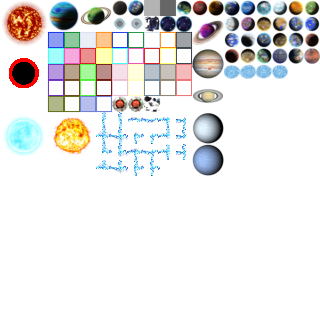
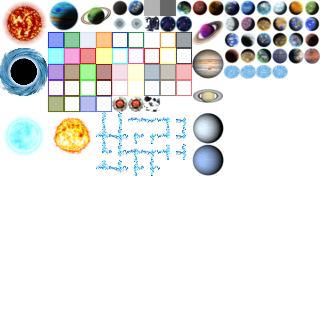
#635 Changes blackhole tiles to regular ones.
Graphics style uses similar color as ascension veins.

Changed region(s): [[0.0, 0.125, 0.1562, 0.3125]]

diff --git a/src/main/java/org/openRealmOfStars/gui/mapPanel/MapPanel.java b/src/main/java/org/openRealmOfStars/gui/mapPanel/MapPanel.java
@@ -466,104 +466,6 @@ public class MapPanel extends JPanel {
    */
   private static final int FLICKER_UPPER_LIMIT = 384;
 
-  /**
-   * Update black hole effect while drawing the map
-   * @param pixelX Pixel coordinate for X
-   * @param pixelY Pixel coordinate for Y
-   * @param i Map position in X coordinate
-   * @param j Map position in Y coordinate
-   * @param tile Black hole tile
-   */
-  public void updateBlackHoleEffect(final int pixelX, final int pixelY,
-      final int i, final int j, final Tile tile) {
-    int safePixelX = pixelX;
-    int safePixelY = pixelY;
-    BufferedImage effectScr = screen;
-    if (panelType == MapPanelType.STARMAP) {
-      effectScr = backgroundScreen;
-    }
-    if (safePixelX - Tile.getMaxWidth(tile.getZoomLevel()) < 0) {
-      safePixelX = Tile.getMaxWidth(tile.getZoomLevel());
-    }
-    if (safePixelX + Tile.getMaxWidth(tile.getZoomLevel())
-      > effectScr.getWidth()) {
-      safePixelX = effectScr.getWidth() - Tile.getMaxWidth(tile.getZoomLevel());
-    }
-    if (safePixelY - Tile.getMaxHeight(tile.getZoomLevel()) < 0) {
-      safePixelY = Tile.getMaxHeight(tile.getZoomLevel());
-    }
-    if (safePixelY + Tile.getMaxHeight(tile.getZoomLevel())
-        > effectScr.getHeight()) {
-      safePixelY = effectScr.getHeight()
-          - Tile.getMaxHeight(tile.getZoomLevel());
-    }
-    if (tile.getName() == TileNames.BLACKHOLE_NW
-        && j + 1 < viewPointY && i + 1 < viewPointX) {
-      BufferedImage tmp = effectScr.getSubimage(
-          safePixelX + Tile.getMaxWidth(tile.getZoomLevel()),
-          safePixelY + Tile.getMaxHeight(tile.getZoomLevel()),
-          Tile.getMaxWidth(tile.getZoomLevel()),
-          Tile.getMaxHeight(tile.getZoomLevel()));
-      tile.updateBlackHoleEffect(tmp);
-    } else if (tile.getName() == TileNames.BLACKHOLE_N
-        && j + 1 < viewPointY && i < viewPointX) {
-      BufferedImage tmp = effectScr.getSubimage(safePixelX,
-          safePixelY + Tile.getMaxHeight(tile.getZoomLevel()),
-          Tile.getMaxWidth(tile.getZoomLevel()),
-          Tile.getMaxHeight(tile.getZoomLevel()));
-      tile.updateBlackHoleEffect(tmp);
-    } else if (tile.getName() == TileNames.BLACKHOLE_NE
-        && j + 1 < viewPointY && i - 1 >= -viewPointX) {
-      BufferedImage tmp = effectScr.getSubimage(
-          safePixelX - Tile.getMaxWidth(tile.getZoomLevel()),
-          safePixelY + Tile.getMaxHeight(tile.getZoomLevel()),
-          Tile.getMaxWidth(tile.getZoomLevel()),
-          Tile.getMaxHeight(tile.getZoomLevel()));
-      tile.updateBlackHoleEffect(tmp);
-    } else if (tile.getName() == TileNames.BLACKHOLE_W
-        && j < viewPointY && i < viewPointX) {
-      BufferedImage tmp = effectScr.getSubimage(
-          safePixelX + Tile.getMaxWidth(tile.getZoomLevel()),
-          safePixelY, Tile.getMaxWidth(tile.getZoomLevel()),
-          Tile.getMaxHeight(tile.getZoomLevel()));
-      tile.updateBlackHoleEffect(tmp);
-    } else if (tile.getName() == TileNames.BLACKHOLE_E
-        && j < viewPointY && i + 1 < viewPointX) {
-      BufferedImage tmp = effectScr.getSubimage(
-          safePixelX - Tile.getMaxWidth(tile.getZoomLevel()),
-          safePixelY, Tile.getMaxWidth(tile.getZoomLevel()),
-          Tile.getMaxHeight(tile.getZoomLevel()));
-      tile.updateBlackHoleEffect(tmp);
-    } else if (tile.getName() == TileNames.BLACKHOLE_SW
-        && j - 1  >= -viewPointY && i + 1 < viewPointX) {
-      BufferedImage tmp = effectScr.getSubimage(
-          safePixelX + Tile.getMaxWidth(tile.getZoomLevel()),
-          safePixelY - Tile.getMaxHeight(tile.getZoomLevel()),
-          Tile.getMaxWidth(tile.getZoomLevel()),
-          Tile.getMaxHeight(tile.getZoomLevel()));
-      tile.updateBlackHoleEffect(tmp);
-    } else if (tile.getName() == TileNames.BLACKHOLE_SW
-        && j - 1  >= -viewPointY && i < viewPointX) {
-      BufferedImage tmp = effectScr.getSubimage(safePixelX,
-          safePixelY - Tile.getMaxHeight(tile.getZoomLevel()),
-          Tile.getMaxWidth(tile.getZoomLevel()),
-          Tile.getMaxHeight(tile.getZoomLevel()));
-      tile.updateBlackHoleEffect(tmp);
-    } else if (tile.getName() == TileNames.BLACKHOLE_SE
-        && j - 1  >= -viewPointY && i - 1 >= -viewPointX) {
-      BufferedImage tmp = effectScr.getSubimage(
-          safePixelX - Tile.getMaxWidth(tile.getZoomLevel()),
-          safePixelY - Tile.getMaxWidth(tile.getZoomLevel()),
-          Tile.getMaxWidth(tile.getZoomLevel()),
-          Tile.getMaxHeight(tile.getZoomLevel()));
-      tile.updateBlackHoleEffect(tmp);
-    } else {
-      BufferedImage tmp = effectScr.getSubimage(safePixelX,
-          safePixelY, Tile.getMaxWidth(tile.getZoomLevel()),
-          Tile.getMaxHeight(tile.getZoomLevel()));
-      tile.updateBlackHoleEffect(tmp);
-    }
-  }
 
   /**
    * Draw Fleet into map panel screen.
@@ -981,7 +883,6 @@ public class MapPanel extends JPanel {
         return;
       }
     }
-    boolean blackholeUpdated = false;
     byte[][] routeData = null;
     if (route != null) {
       routeData = route.getRouteOnMap(starMap.getMaxX(), starMap.getMaxY());
@@ -1134,12 +1035,6 @@ public class MapPanel extends JPanel {
             BasicStroke.JOIN_BEVEL, 1, new float[] {1f }, 0);
         gr.setStroke(dashed);
         gr.setColor(colorDarkBlue);
-        Tile blackholeTile = starMap.getTile(i + cx, j + cy);
-        if (blackholeTile != null && blackholeTile.isBlackhole()
-            && !blackholeUpdated) {
-          updateBlackHoleEffect(pixelX, pixelY, i, j, blackholeTile);
-          blackholeUpdated = true;
-        }
         boolean drawMapPos = false;
         if (routeData != null && routeData[i + cx][j + cy] > 0) {
           drawMapPos = true;
@@ -1427,7 +1322,6 @@ public class MapPanel extends JPanel {
     int cursorPixelX = 0;
     int cursorPixelY = 0;
     Color colorRed = null;
-    boolean blackholeUpdated = false;
     int tileWidth = Tile.getMaxWidth(Tile.ZOOM_NORMAL);
     int tileHeight = Tile.getMaxHeight(Tile.ZOOM_NORMAL);
     Graphics2D gr = screen.createGraphics();
@@ -1515,11 +1409,6 @@ public class MapPanel extends JPanel {
       for (int i = -viewPointX; i < viewPointX + 1; i++) {
         if (!starMap.isValidCoordinate(i + cx, j + cy)) {
           continue;
-        }
-        Tile blackholeTile = starMap.getTile(i + cx, j + cy);
-        if (blackholeTile.isBlackhole() && !blackholeUpdated) {
-          updateBlackHoleEffect(pixelX, pixelY, i, j, blackholeTile);
-          blackholeUpdated = true;
         }
         Stroke dashed = new BasicStroke(1, BasicStroke.CAP_SQUARE,
             BasicStroke.JOIN_BEVEL, 1, new float[] {0.1f, 4.5f }, 0);

diff --git a/src/main/java/org/openRealmOfStars/mapTiles/Tile.java b/src/main/java/org/openRealmOfStars/mapTiles/Tile.java
@@ -21,8 +21,6 @@ import java.awt.Graphics2D;
 import java.awt.image.BufferedImage;
 import java.awt.image.RasterFormatException;
 
-import org.openRealmOfStars.gui.mapPanel.BlackHoleEffect;
-
 /**
  *
  * Class for handling star map tiles
@@ -85,10 +83,6 @@ public class Tile {
    */
   private int zoomLevel;
 
-  /**
-   * Blackhole effect
-   */
-  private BlackHoleEffect blackholeEffect;
 
   /**
    * Get tile from tileset image, where x is number of tiles in X axel and
@@ -159,29 +153,9 @@ public class Tile {
    * @param y Coordinates on y axel
    */
   public void draw(final Graphics2D g, final int x, final int y) {
-    if (isBlackhole()) {
-      if (blackholeEffect == null) {
-        blackholeEffect = new BlackHoleEffect(new BufferedImage(
-            getMaxWidth(zoomLevel),
-            getMaxHeight(zoomLevel), BufferedImage.TYPE_INT_ARGB), zoomLevel);
-      }
-      blackholeEffect.drawBlackholeTile(g, x, y, this);
-    } else {
-      g.drawImage(img, x, y, null);
-    }
+    g.drawImage(img, x, y, null);
   }
 
-  /**
-   * Update black hole effect for all tiles.
-   * @param backgroundImg New background for blackhole.
-   */
-  public void updateBlackHoleEffect(final BufferedImage backgroundImg) {
-    if (blackholeEffect == null) {
-      blackholeEffect = new BlackHoleEffect(backgroundImg, zoomLevel);
-    } else {
-      blackholeEffect.updateBackground(backgroundImg);
-    }
-  }
   /**
    * Draw mini sector to target image.
    * @param target Target image where to draw.

diff --git a/AUTHORS.md b/AUTHORS.md
@@ -341,6 +341,8 @@ Destroyed planet map tile by Tuomo Untinen with Stable Diffusion
 
 Gravity veins map tiles by Tuomo Untinen
 
+Black hole map tiles by Tuomo Untinen
+
 Animated Portal or Wormhole, several Variants by Hansjörg Malthaner
 http://opengameart.org/users/varkalandar
 Licensed under CC BY SA 4.0
@@ -618,3 +620,5 @@ Licensed under CC BY 4.0 http://creativecommons.org/licenses/by/4.0/
 
 Solar Sail by Vitalezzz
 Licensed under CC BY 4.0 http://creativecommons.org/licenses/by/4.0/
+
+
